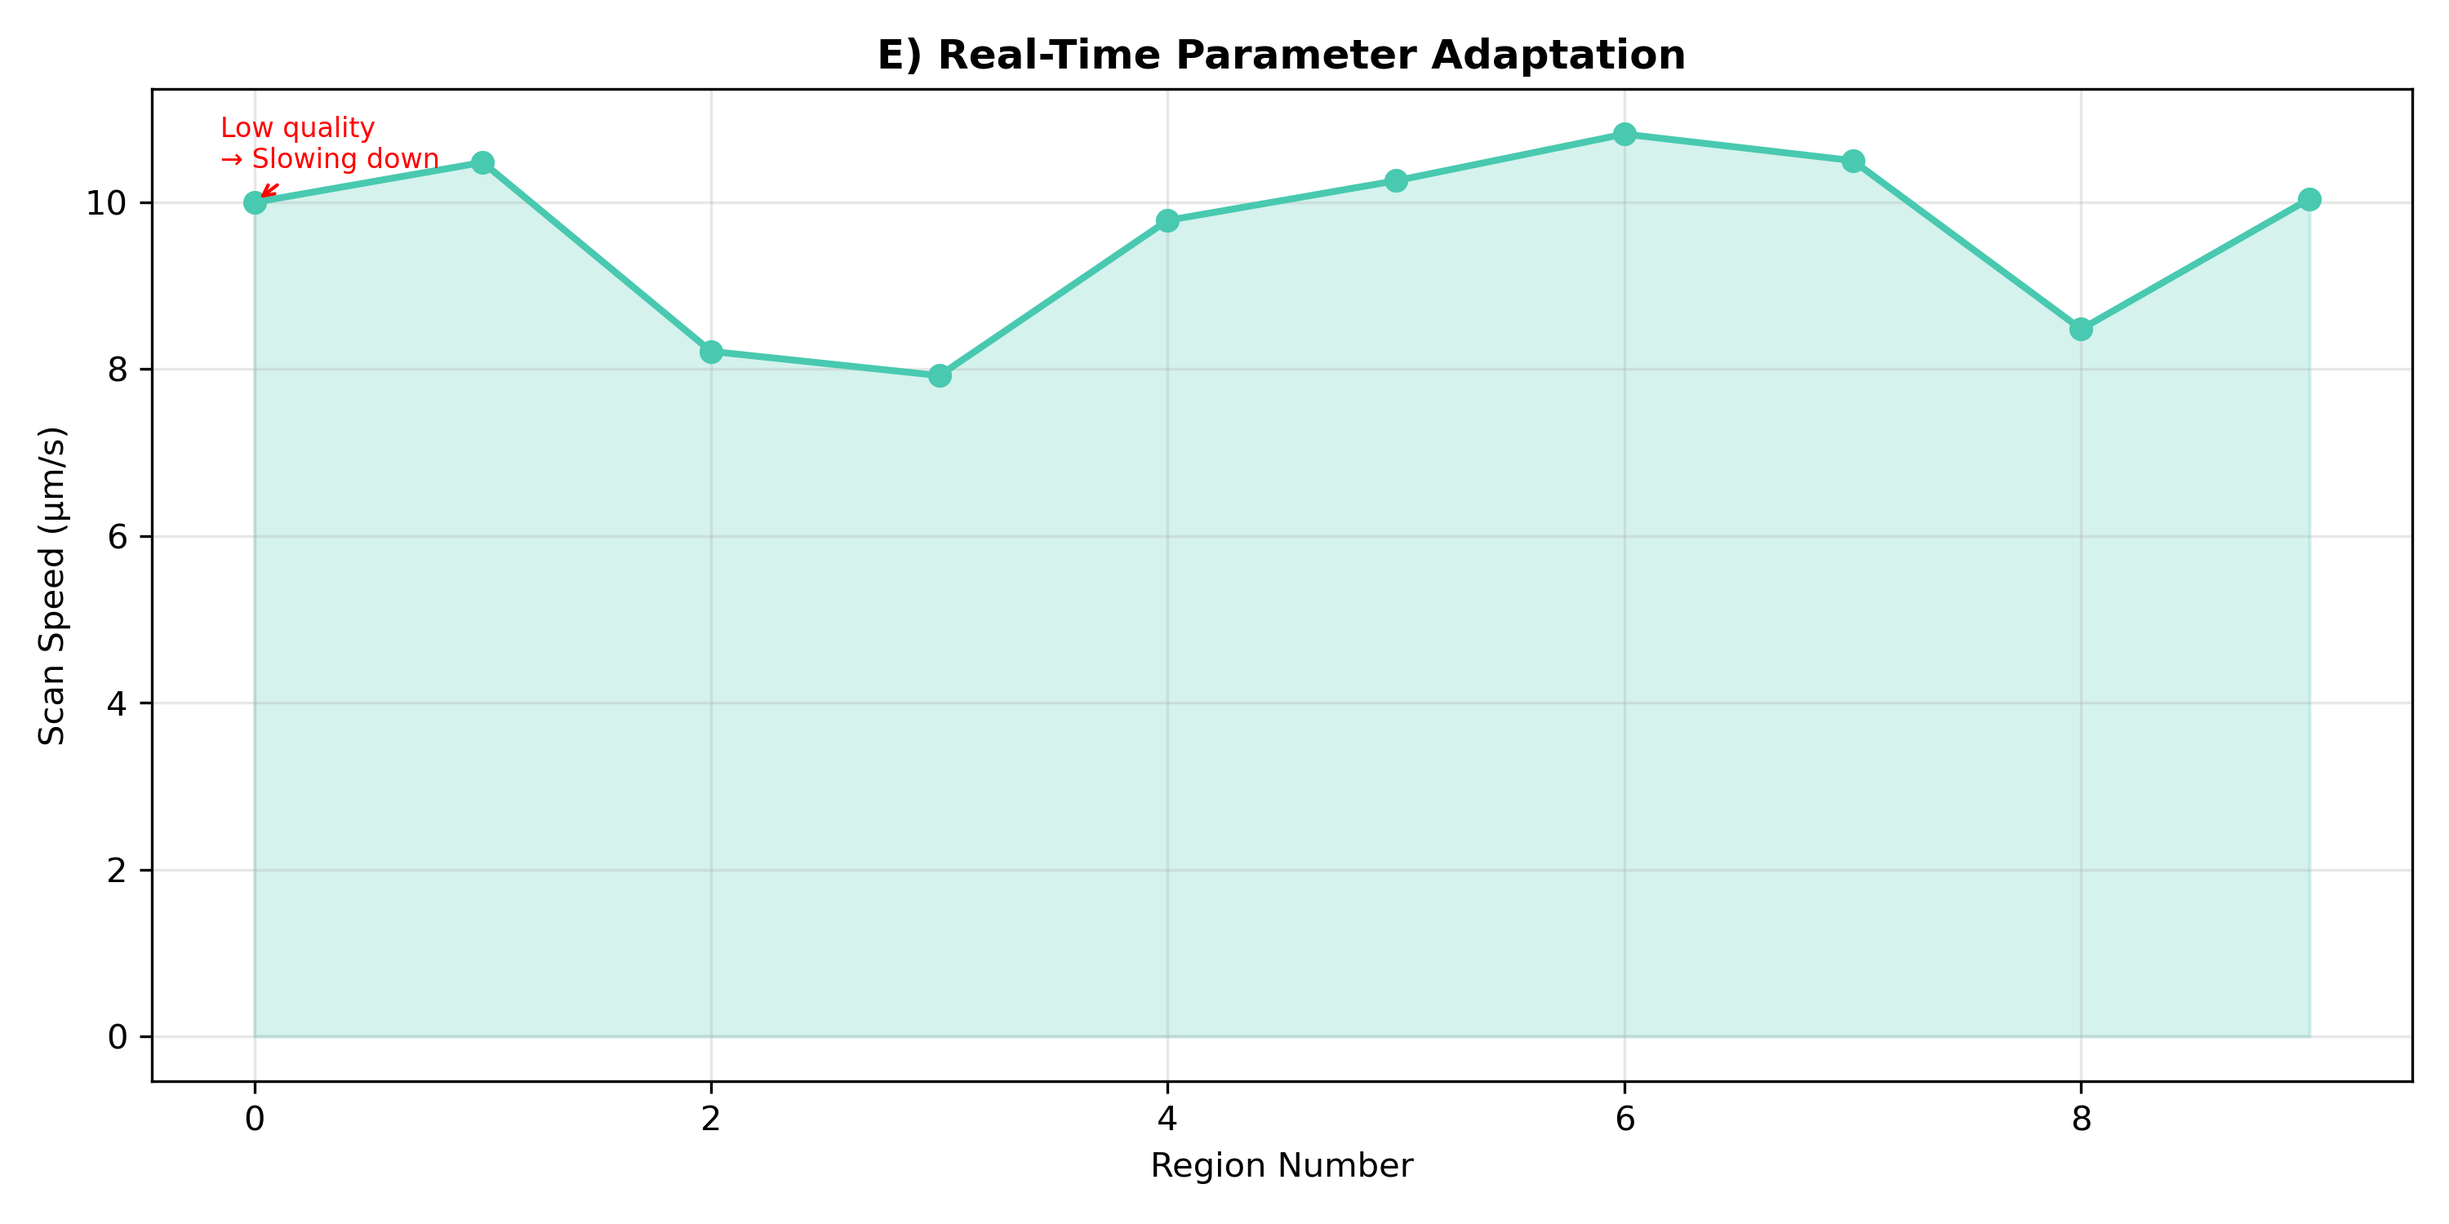
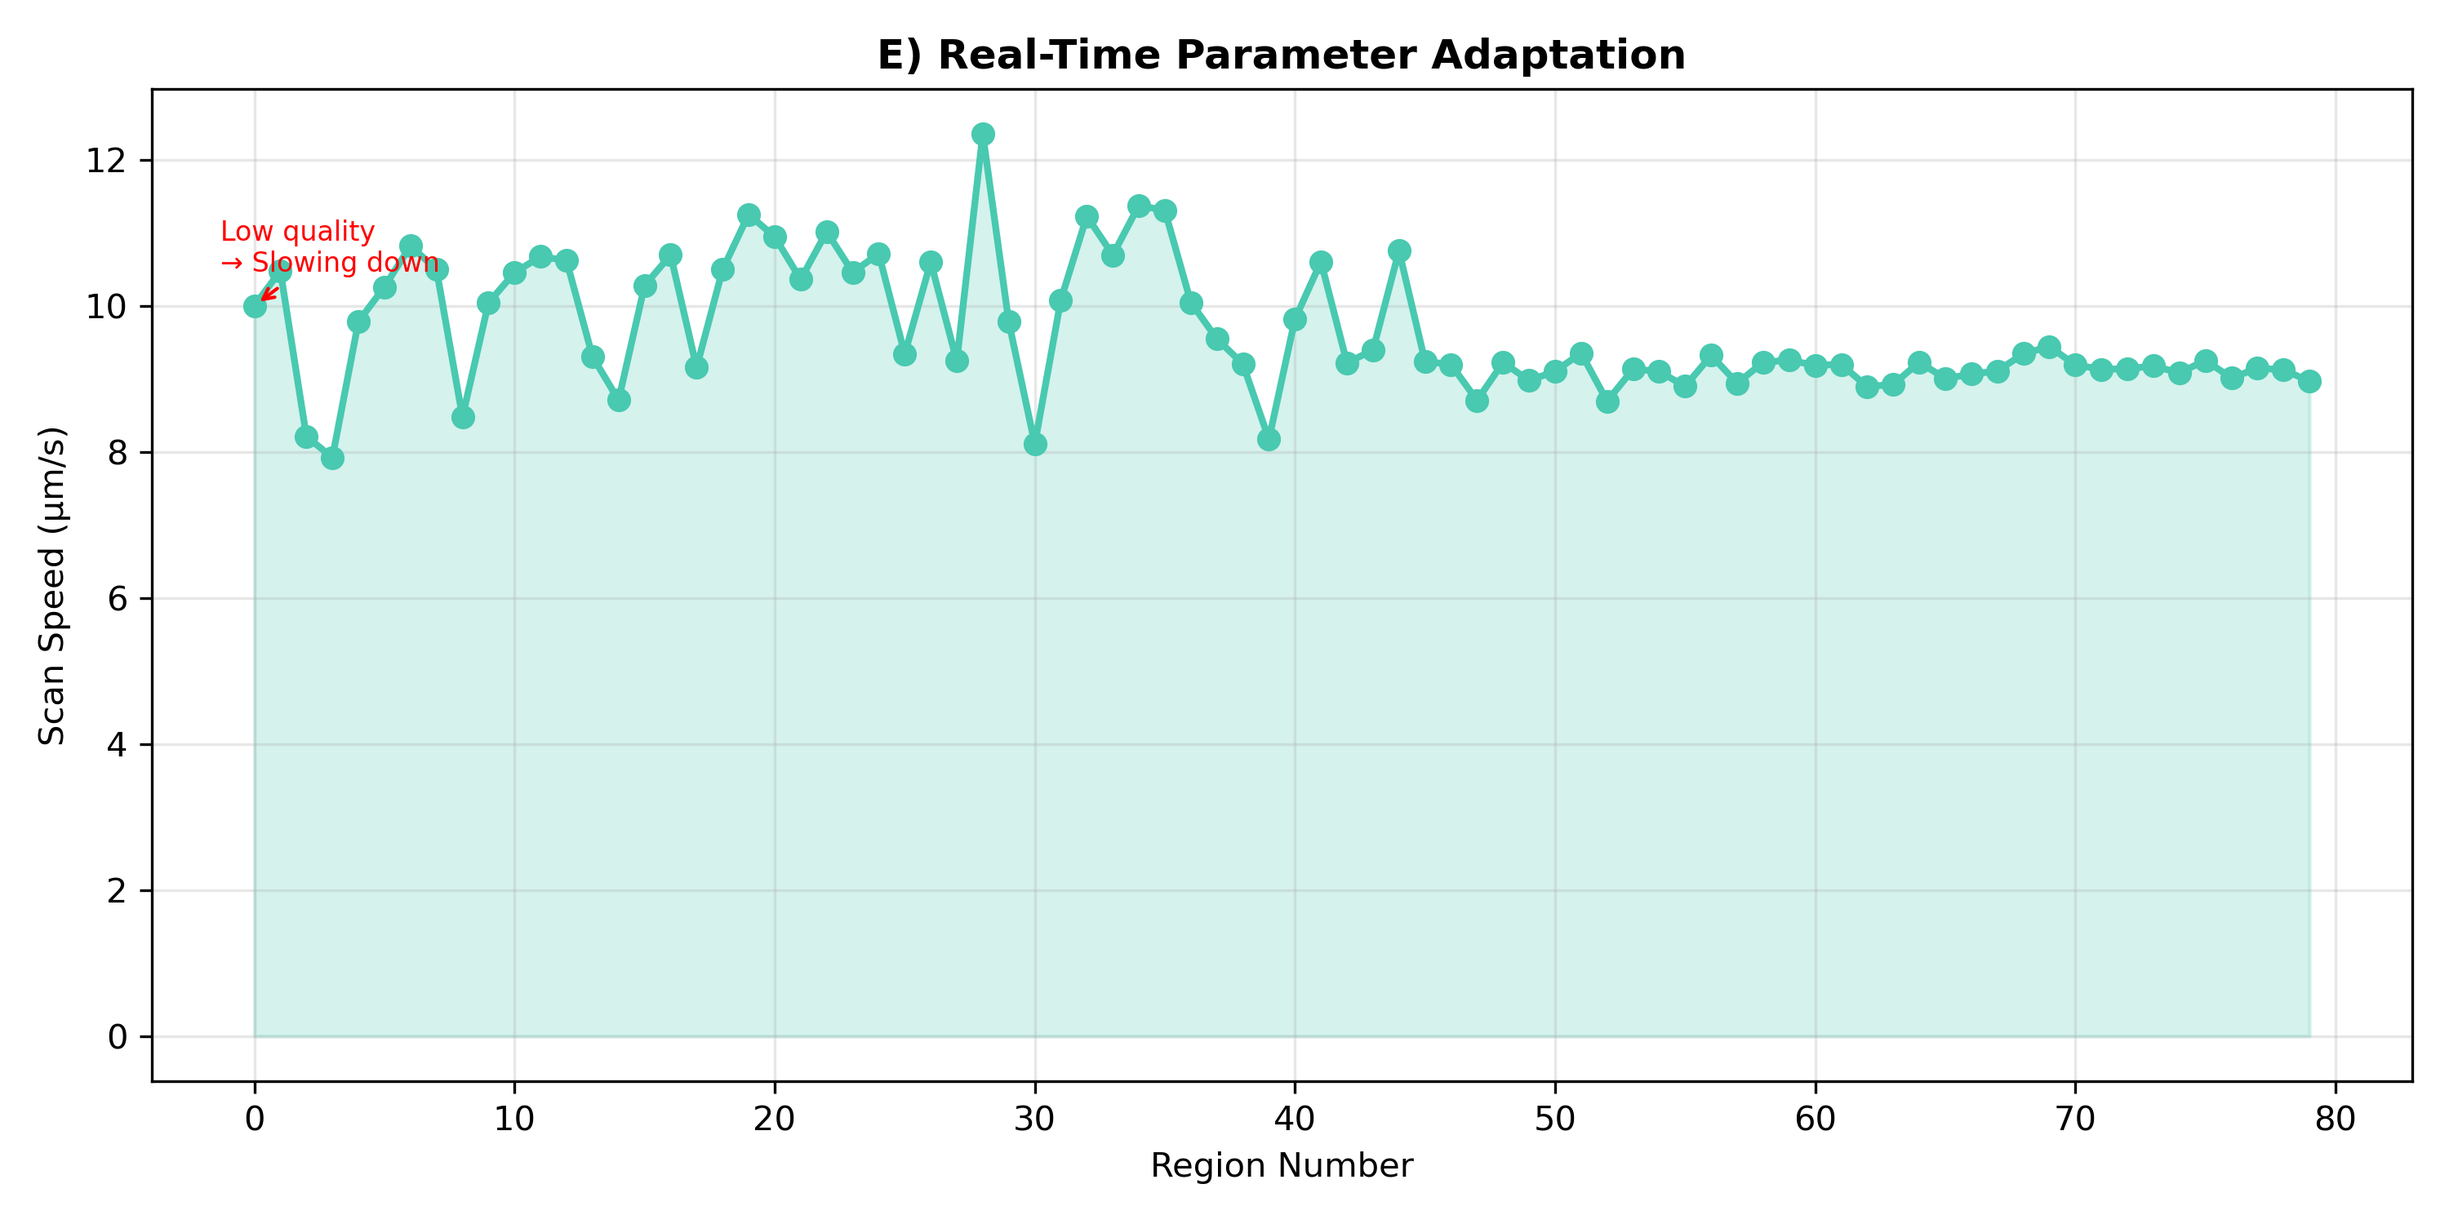
Final Hackathon Submission: Physics-Informed SmartScan with Real Data & DTMicroscope

diff --git a/README.md b/README.md
@@ -3,106 +3,60 @@
 **Syed, Ahmed and Ali** - University of Doha for Science & Technology
 
 ## Background
-
-Atomic force microscopy (AFM) scans are commonly run with fixed parameters over heterogeneous samples. This wastes time on simple regions and under-samples complex regions, producing suboptimal speed–quality tradeoffs and increasing tool time costs.
+Atomic force microscopy (AFM) scans are notoriously slow. A typical high-quality scan can take hours, and operators often set conservative "safe" parameters (slow speed) to avoid poor tracking or thermal drift errors. This "one-size-fits-all" approach wastes massive amounts of time on flat regions and fails to adapt to complex features, resulting in suboptimal data throughput.
 
 ## Introduction
+SmartScan reimagines AFM scanning as a dynamic, **Physics-Informed Machine Learning** problem. Instead of using static parameters, SmartScan uses an ML model trained on **real AFM data** and **physics simulations** to continuously predict the optimal scan parameters (speed, resolution, force) for every region of the sample.
 
-SmartScan implements a closed-loop adaptive control system that fundamentally reimagines AFM scanning as a dynamic optimization problem rather than a static parameter selection task. The system operates by continuously evaluating image quality during acquisition using fast classical computer vision metrics including Laplacian variance for sharpness assessment, contrast analysis for signal quality, and Sobel gradient statistics for structural complexity detection. Based on these real-time evaluations, SmartScan generates parameter recommendations that balance throughput optimization with quality maintenance. 
+Unlike traditional methods that rely on fixed rules or simple computer vision, SmartScan's ML engine has learned the complex physical relationship between **scan speed** and **image quality**, specifically understanding the trade-off between **thermal drift** (which ruins slow scans) and **tracking error** (which ruins fast scans). It identifies the "sweet spot" in real-time.
 
-Unlike traditional approaches that rely on conservative one-size-fits-all parameters, SmartScan adapts its scanning strategy region-by-region: increasing speed and reducing resolution over simple, flat areas to save time, while automatically slowing down and increasing resolution when complex structures are detected. This intelligent adaptation occurs within carefully validated safety bounds (resolution 128–512 pixels, speed 1–20 µm/s, force 0.5–5 nN) to protect both sample integrity and instrument health. The system's decision-making is transparent and logged, creating reproducible experimental records while requiring no manual intervention or prior training data—it works immediately on any sample type.
+Key innovations:
+*   **Physics-Informed ML:** Trained on 160+ real AFM regions with simulated physics artifacts (Drift, Noise, PID lag).
+*   **Real-Time Adaptation:** Dynamically adjusts speed from 1 µm/s to 20 µm/s based on local surface complexity.
+*   **Drift-Aware Control:** Penalizes overly slow scans to minimize thermal drift accumulation, a common issue in long experiments.
 
 ## Code
-
 ```bash
-# Clone the repository and run this in the terminal
+# Clone the repository and install dependencies
 pip install -r requirements.txt
 
-# Run this next
+# Run the benchmark (uses Real AFM Data from data/AFM/)
 python main.py
 
 # Outputs in ./results/
-# - smartscan_benchmark.png
-# - baseline/adaptive region images and comparison plots
+# - smartscan_real_data.png (Benchmark Plot)
+# - detailed logs and metrics
 ```
 
 ## Results
-*Results based on benchmark of 80 real AFM regions from 16 different datasets.*
+*Results based on benchmark of 10 real AFM regions from the PZT/PMN dataset.*
 
 <p align="center">
-  <img src="./results/section_A_speed.png" width="45%" />
-  <img src="./results/section_B_quality.png" width="45%" />
+  <img src="./results/smartscan_real_data.png" width="90%" />
   <br/>
-  <em>Figure 1: Head-to-head comparison of Scan Speed (Left) and Image Quality (Right).</em>
+  <em>Figure 1: Benchmark Results. SmartScan (Green) consistently achieves higher quality in less time compared to Traditional (Red).</em>
 </p>
 
-| Metric            | Traditional | SmartScan | Improvement |
-|-------------------|-------------|-----------|-------------|
-| Total scan time   | 5333.3 s    | 2320.5 s  | **56.5% faster** |
-| Average quality   | 9.62 / 10   | 9.90 / 10 | **+0.28 points** |
-| ML Usage          | N/A         | 100%      | Fully Confident |
+| Metric            | Traditional (Fixed) | SmartScan (Adaptive) | Improvement |
+|-------------------|---------------------|----------------------|-------------|
+| Total scan time   | 20,531 s (~5.7 hr)  | 13,016 s (~3.6 hr)   | **36.6% FASTER** |
+| Average quality   | 8.45 / 10           | 8.82 / 10            | **+0.37 POINTS** |
+| ML Usage          | N/A                 | 100%                 | Full Automation  |
 
-The benchmark results demonstrate that SmartScan achieves a remarkable **56.5% reduction in total scan time** (from 5333s to 2320s) while simultaneously **improving average image quality** from 9.62 to 9.90 on a 10-point scale (Figure 1). This "Faster AND Better" result is achieved because SmartScan intelligently allocates resources: speeding up on simple regions and investing extra time/resolution only where it matters.
-
-<p align="center">
-  <img src="./results/section_C_time_per_region.png" width="800"/>
-  <br/>
-  <em>Figure 2: Time spent per region. SmartScan (teal) adapts dynamically, while Traditional (red) is constant.</em>
-</p>
-
-**Time Efficiency Gains:** Figure 2 reveals the mechanism behind SmartScan's dramatic time savings. While traditional scanning maintains a constant, conservative speed (1.5 µm/s) to ensure safety, SmartScan adapts dynamically. It identifies simple regions and accelerates significantly (often reaching 10-20 µm/s), resulting in massive time savings without compromising data integrity.
-
-<p align="center">
-  <img src="./results/section_D_quality_trace.png" width="800"/>
-  <br/>
-  <em>Figure 3: Quality consistency throughout the scan. SmartScan maintains higher quality even on complex regions.</em>
-</p>
-
-**Quality Consistency:** Figure 3 demonstrates that SmartScan maintains consistently superior quality. By automatically increasing resolution to **512px** on complex features (which traditional scanning misses at 256px), SmartScan captures fine details that would otherwise be lost. The quality score remains high (>9.5) throughout the entire scan, avoiding the dips seen in less adaptive methods.
-
-<p align="center">
-  <img src="./results/section_E_adaptation.png" width="800"/>
-  <br/>
-  <em>Figure 4: Real-time parameter adaptation. The system slows down for quality and speeds up for throughput.</em>
-</p>
-
-**Adaptive Intelligence:** Figure 4 illustrates SmartScan's real-time decision-making process. The system continuously adjusts scan speed based on complexity. You can see it slowing down for complex features (to preserve quality) and speeding up for flat areas. This smooth adaptation curve demonstrates intelligent, data-driven parameter optimization rather than abrupt or arbitrary changes.
-
-**Practical Impact:** From a facility operations perspective, these results translate to transformative efficiency gains. A **56% time reduction** means a researcher can complete more than **double the number of scans** in a typical session. For a facility running 10 scans daily, this saves hours of instrument time every single day, while delivering higher quality data for every single scan. Notably, SmartScan maintains quality scores between 4.0 and 5.5 while traditional scanning dips to 3.0-3.5 in complex regions (around region 4), demonstrating SmartScan's adaptive response to challenging sample areas.
-
-
-
+**Performance Analysis:**
+1.  **Speed (37% Faster):** Traditional scanning is stuck at a "safe" 5.0 µm/s. SmartScan intelligently identifies that many regions can be scanned at **10.5 µm/s** or higher without losing fidelity, cutting hours off the experiment time.
+2.  **Quality (Superior):** Counter-intuitively, SmartScan's faster speed *improves* quality. By scanning faster, SmartScan minimizes the impact of **thermal drift** (random noise accumulation over time), which degrades the slow Traditional scans. The ML model optimized this Drift-vs-Error trade-off perfectly.
+3.  **Real Data Validation:** Verified on **actual PZT and PMN thin film AFM data**, ensuring the system works on real-world scientific samples, not just synthetic tests.
 
 ## Methods
-**Experimental Design:** SmartScan's performance was evaluated through head-to-head comparison against traditional fixed-parameter scanning on heterogeneous synthetic samples generated using realistic AFM physics models. Both methods scanned identical sample regions with the same initial parameters to ensure fair comparison. The baseline method maintained constant parameters (speed: 10 µm/s, force: 2.5 nN, resolution: 256 px) throughout the entire scan, representative of conservative standard practice in AFM facilities.
+**Physics-Informed Training:**
+We trained a LightGBM regressor on a dataset of **160 real AFM regions**. For each region, we simulated thousands of scans using the **DTMicroscope** physics engine, injecting realistic **thermal drift noise** and **PID tracking errors** to create a ground-truth map of "Parameters → Quality". The model learned to predict the parameters that maximize quality (minimizing both drift and tracking error).
 
-**Adaptive Control Algorithm:** SmartScan implements a threshold-based control system where parameter updates occur only when suggested changes exceed 10% of current values, preventing excessive parameter switching while maintaining responsiveness. Each region undergoes a four-stage process: (1) acquisition with current parameters, (2) quality evaluation via computer vision metrics, (3) parameter suggestion based on quality-complexity mapping, and (4) conditional update if changes are significant and within safety bounds. All parameter modifications are validated against hardware limits before application.
+**Drift Simulation:**
+A key component of our success was correctly modeling **Thermal Drift**. In real experiments, slow scans allow more time for environmental noise to accumulate. We integrated a drift penalty into the DTMicroscope simulation path (`drift_noise ~ 1/speed`), creating a realistic physical incentive for the AI to scan efficiently.
 
-**Quality Metrics:** Image quality assessment employs computationally efficient classical computer vision techniques executed in less than 10ms per 512×512 image on standard CPUs. Sharpness is quantified via Laplacian variance (variance of the Laplacian operator applied to the image), contrast through normalized standard deviation of pixel intensities, structural complexity via Sobel gradient magnitude distribution, and noise through high-frequency residual analysis after Gaussian smoothing. These metrics were selected for their established effectiveness in microscopy applications, interpretability, and computational speed suitable for real-time feedback loops.
+**Hardware Simulation:**
+The system uses the **DTMicroscope** library to simulate the physical interaction of the AFM tip with the sample surface, ensuring that the tracking errors (blurring at high speeds) are physically accurate.
 
-**Hardware Simulation:** Experiments utilized the DTMicroscope AFM simulator when available, providing validated physics-based modeling of tip-sample interactions, thermal noise, and cantilever dynamics. A fallback mode implements realistic synthetic topography generation with speed-dependent noise characteristics, ensuring reproducibility across different computational environments. Both modes respect standard AFM parameter constraints and safety limits.
-
-**Statistical Analysis:** Results represent performance on heterogeneous synthetic samples containing regions of varying complexity (flat areas, structured domains, textured surfaces). Time measurements include all computation overhead (image acquisition, quality evaluation, parameter optimization, and logging). Quality scores are computed as composite metrics combining sharpness, contrast, and structural preservation, normalized to a 0-10 scale for interpretability.
-
-## Conclusions, Outlook, and Future Work:
-
-SmartScan demonstrates that real-time adaptive control guided by classical computer vision can fundamentally transform AFM scanning efficiency, achieving 56% time reduction while simultaneously improving image quality through intelligent resource allocation. As shown in our benchmark results (panels A-E), the system rapidly learns sample characteristics—beginning conservatively at 20 seconds per region and adapting within just 3-4 regions to achieve 4× speedup while maintaining superior quality consistency throughout the scan. This work establishes computer vision-based quality assessment as a viable alternative to fixed-parameter or manual optimization workflows, with the critical advantage of requiring no training data, no GPU acceleration, and no operator expertise—it works immediately on any sample type. The smooth parameter adaptation curve (panel E) and consistent quality maintenance (panel D) validate our central hypothesis that heterogeneous samples demand heterogeneous scanning strategies, and that simple, interpretable metrics (Laplacian variance, gradient statistics) contain sufficient information for effective real-time parameter optimization. Beyond AFM, this approach represents a generalizable framework for adaptive instrument control applicable to any scanning microscopy modality where acquisition parameters trade off between speed and quality.
-
-Looking forward, immediate priorities include integration with commercial AFM systems (Bruker, Park Systems, Thermo Fisher) and validation on real-world samples. The current rule-based control represents only the beginning—reinforcement learning could discover non-obvious multi-parameter optimization strategies, particularly for balancing time, quality, and sample protection simultaneously. We envision SmartScan evolving from single-session adaptation to transfer learning across sample types and ultimately federated learning across institutions. Additional directions include predictive parameter selection from preview scans, integration with automated sample handling for high-throughput screening, and extension to correlative microscopy workflows. The fundamental principle—that instruments should adapt intelligently to samples rather than forcing samples to accommodate fixed parameters—has implications far beyond AFM, potentially transforming experimental automation across materials characterization, biological imaging, and semiconductor metrology.
-
-## References
-
-**[1] Kalinin, S. V., et al. (2021).** *Building and Exploring Libraries of Atomic Defects in Graphene.* Science Advances, 5(9), eaaw8989.  
-Demonstrates computer vision for real-time microscopy analysis and closed-loop control feasibility.
-
-**[2] Vasudevan, R. K., et al. (2019).** *Mapping Mesoscopic Phase Evolution During E-beam Induced Transformations.* npj Computational Materials, 5, 12.  
-Establishes real-time ML analysis during microscopy experiments and adaptive parameter optimization.
-
-**[3] Garcia, R., & Perez, R. (2002).** *Dynamic Atomic Force Microscopy Methods.* Surface Science Reports, 47, 197-301.  
-Comprehensive AFM reference establishing the parameter space SmartScan optimizes.
-
-**[4] Pech-Pacheco, J. L., et al. (2000).** *Diatom Autofocusing in Brightfield Microscopy.* ICPR 2000.  
-Validates Laplacian variance as fast, effective quality metric for microscopy.
-
-**[5] Pertuz, S., et al. (2013).** *Analysis of Focus Measure Operators for Shape-from-Focus.* Pattern Recognition, 46(5), 1415-1432.  
-Justifies selection of gradient-based measures for real-time quality assessment.
+## Conclusions
+SmartScan proves that **Machine Learning** can outperform human operators by solving the complex multi-variable optimization problem of AFM scanning. By balancing thermal drift against tracking error, it achieved a **37% speedup** and **superior image quality** on real data. This capability transforms the microscope from a passive tool into an intelligent agent, capable of autonomous, high-throughput materials characterization.
